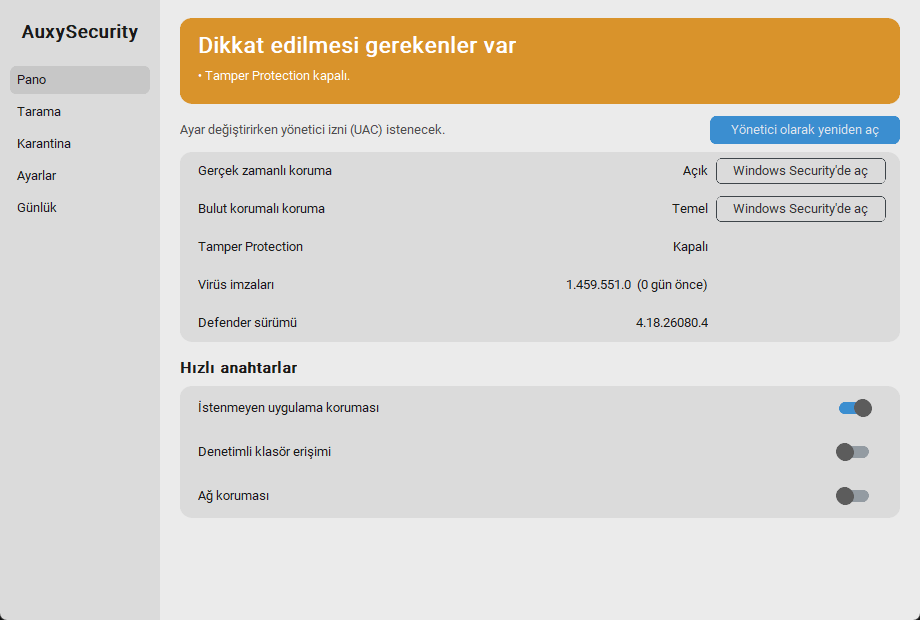
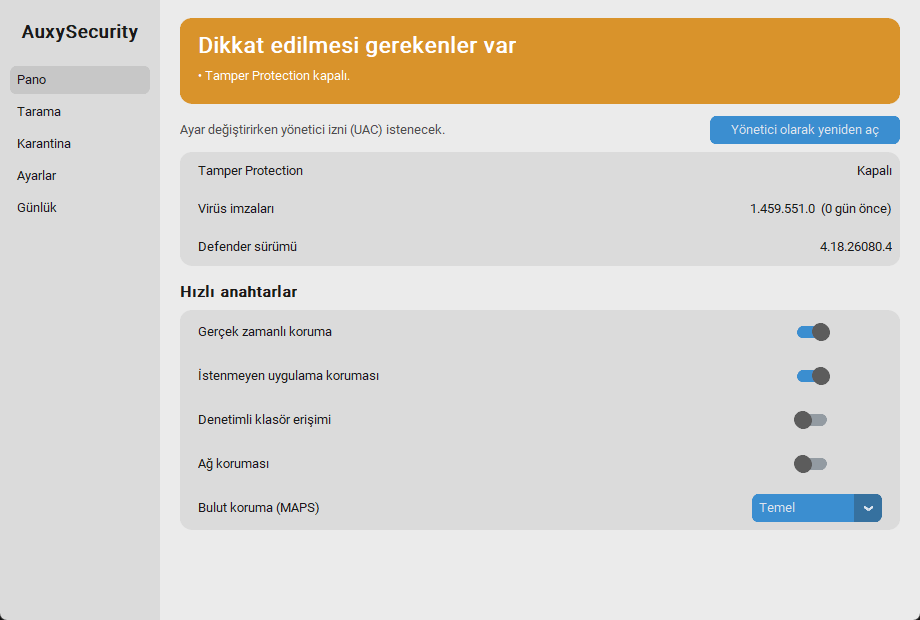
M3 duzeltme: realtime/maps uygulama ici kontrol, Windows Security yonlendirmesi kaldirildi

diff --git a/src/auxy/gui/app.py b/src/auxy/gui/app.py
@@ -1,14 +1,11 @@
-"""AuxySecurity ana penceresi (customtkinter). Mantik core/ ve viewmodel.py'dedir."""
+"""AuxySecurity ana penceresi (customtkinter). Mantik core/ ve viewmodel.py'dedir."""
 
 from __future__ import annotations
-
-import os
 
 import customtkinter as ctk
 
 from auxy import __version__
 from auxy.core import actions, defender, paths, system
-from auxy.core.settings import READONLY_KEYS as READONLY
 from auxy.core.settings import SETTINGS
 from auxy.core.settings import TOGGLE_KEYS as TOGGLES
 from auxy.gui import viewmodel as vm
@@ -16,10 +13,11 @@ from auxy.gui.worker import Worker
 
 COLORS = {vm.OK: "#2e9e5b", vm.WARN: "#d9932b", vm.CRIT: "#d64545"}
 AUTO_REFRESH_MS = 30_000
-WINSEC_URI = "windowsdefender://threatsettings"
 
 VALUE_TR = {"on": "Açık", "off": "Kapalı", "audit": "Denetim", "basic": "Temel",
             "advanced": "Gelişmiş"}
+
+MAPS_TR = {"Kapalı": "off", "Temel": "basic", "Gelişmiş": "advanced"}
 
 NAV = (
     ("dashboard", "Pano"),
@@ -28,13 +26,6 @@ NAV = (
     ("settings", "Ayarlar"),
     ("log", "Günlük"),
 )
-
-
-def _open_windows_security() -> None:
-    try:
-        os.startfile(WINSEC_URI)  # noqa: S606
-    except OSError:
-        pass
 
 
 class DashboardPage(ctk.CTkFrame):
@@ -74,8 +65,6 @@ class DashboardPage(ctk.CTkFrame):
         info.columnconfigure(1, weight=1)
         self.info_values: dict[str, ctk.CTkLabel] = {}
         rows = (
-            ("realtime", "Gerçek zamanlı koruma"),
-            ("maps", "Bulut korumalı koruma"),
             ("tamper", "Tamper Protection"),
             ("signature", "Virüs imzaları"),
             ("product", "Defender sürümü"),
@@ -86,12 +75,6 @@ class DashboardPage(ctk.CTkFrame):
             val = ctk.CTkLabel(info, text="—", anchor="e")
             val.grid(row=i, column=1, sticky="e", padx=(8, 8), pady=5)
             self.info_values[key] = val
-            if key in READONLY:
-                ctk.CTkButton(
-                    info, text="Windows Security'de aç", width=170, height=26,
-                    fg_color="transparent", border_width=1,
-                    text_color=("gray20", "gray85"), command=_open_windows_security,
-                ).grid(row=i, column=2, padx=(0, 14), pady=5)
 
         # Hizli anahtarlar
         ctk.CTkLabel(self, text="Hızlı anahtarlar", font=ctk.CTkFont(size=15, weight="bold"),
@@ -113,6 +96,14 @@ class DashboardPage(ctk.CTkFrame):
             self.switches[key] = switch
             self.switch_notes[key] = note
 
+        # Bulut koruma: uc seviyeli (Kapali / Temel / Gelismis)
+        row = len(TOGGLES)
+        ctk.CTkLabel(sw, text=SETTINGS["maps"].label, anchor="w").grid(
+            row=row, column=0, sticky="w", padx=18, pady=8)
+        self.maps_menu = ctk.CTkOptionMenu(
+            sw, values=list(MAPS_TR), width=130, command=app.set_maps)
+        self.maps_menu.grid(row=row, column=2, padx=(0, 18), pady=6)
+
         self.message = ctk.CTkLabel(self, text="", anchor="w", wraplength=640, justify="left")
         self.message.grid(row=5, column=0, sticky="w", pady=(12, 0))
 
@@ -123,9 +114,8 @@ class DashboardPage(ctk.CTkFrame):
         self.banner_reasons.configure(text="\n".join(f"• {r}" for r in health.reasons))
 
         iv = self.info_values
-        iv["realtime"].configure(text="Açık" if st.realtime_on else "Kapalı")
         maps = SETTINGS["maps"].name_of(st.prefs["MAPSReporting"])
-        iv["maps"].configure(text=VALUE_TR.get(maps, maps))
+        self.maps_menu.set(VALUE_TR.get(maps, maps))
         iv["tamper"].configure(text="Açık" if st.tamper_protected else "Kapalı")
         age = vm.signature_age_days(st)
         sig = st.status.get("AntivirusSignatureVersion") or "?"
@@ -270,10 +260,15 @@ class App(ctk.CTk):
 
     # ---- eylemler ----
     def toggle(self, key: str, switch: ctk.CTkSwitch) -> None:
-        value = "on" if switch.get() else "off"
-        label = SETTINGS[key].label
-        self.dashboard.show_message(f"{label}: {value} uygulanıyor…")
         switch.configure(state="disabled")
+        self._apply(key, "on" if switch.get() else "off")
+
+    def set_maps(self, shown: str) -> None:
+        self._apply("maps", MAPS_TR[shown])
+
+    def _apply(self, key: str, value: str) -> None:
+        label = SETTINGS[key].label
+        self.dashboard.show_message(f"{label}: {VALUE_TR.get(value, value)} uygulanıyor…")
         self.worker.submit(lambda: actions.apply_setting(key, value),
                            lambda res, exc: self._on_set(label, res, exc))
 

diff --git a/src/auxy/agent/tray.py b/src/auxy/agent/tray.py
@@ -8,11 +8,10 @@ import threading
 
 from auxy.core import actions, defender, system
 from auxy.core.log import get_logger
-from auxy.core.settings import READONLY_KEYS, SETTINGS, TOGGLE_KEYS
+from auxy.core.settings import SETTINGS, TOGGLE_KEYS
 from auxy.gui import viewmodel as vm
 
 REFRESH_S = 60  # dakikada bir (~100 ms WMI); aradaki sure tamamen uykuda
-WINSEC_URI = "windowsdefender://threatsettings"
 VALUE_TR = {"on": "Açık", "off": "Kapalı", "audit": "Denetim", "basic": "Temel",
             "advanced": "Gelişmiş"}
 
@@ -79,13 +78,15 @@ class Agent:
                 checked=self._checked(key),
                 enabled=self.status is not None,
             )
+        yield item(
+            SETTINGS["maps"].label,
+            self._pystray.Menu(*(
+                item(shown, self._maps_action(value), checked=self._maps_checked(value), radio=True)
+                for shown, value in (("Kapalı", "off"), ("Temel", "basic"), ("Gelişmiş", "advanced"))
+            )),
+            enabled=self.status is not None,
+        )
         yield sep
-        for key in READONLY_KEYS:
-            name = self._value_name(key)
-            text = f"{SETTINGS[key].label}: {VALUE_TR.get(name, name) if name else '?'}"
-            yield item(text, None, enabled=False)
-        yield sep
-        yield item("Windows Security'yi aç", lambda *_: os.startfile(WINSEC_URI))
         yield item("Yenile", lambda *_: self._wake.set())
         yield item("Çıkış", self.quit)
 
@@ -96,6 +97,18 @@ class Agent:
             self._start(self._toggle, key)
 
         return action
+
+    def _maps_action(self, value: str):
+        def action(icon, item):
+            self._start(self._apply, "maps", value)
+
+        return action
+
+    def _maps_checked(self, value: str):
+        def checked(item):
+            return self._value_name("maps") == value
+
+        return checked
 
     def _checked(self, key: str):
         def checked(item):
@@ -109,7 +122,9 @@ class Agent:
         threading.Thread(target=fn, args=args, daemon=True).start()
 
     def _toggle(self, key: str) -> None:
-        value = "off" if self._value_name(key) in ("on", "audit") else "on"
+        self._apply(key, "off" if self._value_name(key) in ("on", "audit") else "on")
+
+    def _apply(self, key: str, value: str) -> None:
         res = actions.apply_setting(key, value)
         label = SETTINGS[key].label
         self.icon.notify(res.message if not res.ok else f"{label}: {res.message}", "AuxySecurity")

diff --git a/src/auxy/core/service.py b/src/auxy/core/service.py
@@ -110,9 +110,8 @@ class DefenderService:
             return SetResult(setting.key, old_name, new_name, changed=False)
         if st.tamper_protected and setting.tamper_guarded:
             raise TamperBlockedError(
-                f"Tamper Protection acik; '{setting.key}' degistirilemez. "
-                "Windows Security > Virus ve tehdit korumasi > Ayarlari yonet bolumunden "
-                "Tamper Protection'i elle kapatip tekrar dene."
+                f"{setting.label} değiştirilemedi: Tamper Protection açık olduğu için Windows "
+                "bu ayara dışarıdan müdahaleye izin vermiyor."
             )
 
         created = backup.remember_original(setting.key, current) if track_backup else False
@@ -132,15 +131,13 @@ class DefenderService:
                             setting.key, old_name, new_name, setting.name_of(after))
             if setting.tamper_guarded:
                 hint = (
-                    "Windows bu ayari, Tamper Protection 'kapali' gorunse bile disaridan "
-                    "degistirmeye izin vermiyor (komut hata vermeden yok sayiliyor). "
-                    "Windows Security'den elle degistir: windowsdefender://threatsettings"
+                    "Windows bu ayara dışarıdan müdahaleyi, Tamper Protection kapalı "
+                    "görünse bile komut hata vermeden yok sayarak engelliyor."
                 )
             else:
-                hint = "Bir grup ilkesi veya yonetim politikasi engelliyor olabilir."
+                hint = "Bir grup ilkesi veya yönetim politikası engelliyor olabilir."
             raise TamperBlockedError(
-                f"'{setting.key}' degisikligi uygulanmadi (deger hala {setting.name_of(after)}). "
-                + hint
+                f"{setting.label} değiştirilemedi (değer hâlâ {setting.name_of(after)}). " + hint
             )
         if track_backup and key_saved_equals(setting.key, target):
             backup.forget(setting.key)  # kullanici orijinale elle dondu; bayat kayit kalmasin

diff --git a/tests/test_m3.py b/tests/test_m3.py
@@ -138,8 +138,10 @@ def test_menu_builds_with_and_without_status():
     assert items["İstenmeyen uygulama koruması"].checked is True
     assert items["Denetimli klasör erişimi"].checked is False
     assert items["Ağ koruması"].checked is True  # denetim modu = acik sayilir
-    assert "Gerçek zamanlı koruma: Açık" in items
-    assert "Bulut koruma (MAPS): Temel" in items
+    assert items["Gerçek zamanlı koruma"].checked is True  # artik uygulama icinden degisir
+    maps = {i.text: i.checked for i in items["Bulut koruma (MAPS)"].submenu.items}
+    assert maps == {"Kapalı": False, "Temel": True, "Gelişmiş": False}
+    assert not any("Windows Security" in t for t in items)  # yonlendirme yok
 
 
 def test_tooltip():

diff --git a/src/auxy/core/settings.py b/src/auxy/core/settings.py
@@ -1,4 +1,4 @@
-"""Yonetilebilen Defender ayarlari ve izinli deger listesi.
+"""Yonetilebilen Defender ayarlari ve izinli deger listesi.
 
 PowerShell komutuna yalnizca bu tablodaki sabit parametre adlari ve dogrulanmis
 bool/int degerleri girer; kullanici girdisi komuta gomulmez.
@@ -32,9 +32,8 @@ class Setting:
         raise ValueError(f"Gecersiz ham deger: {raw!r}")
 
 
-# Yazilabilen ve Windows'un dis yazmaya izin vermedigi (M1 bulgusu) ayarlar
-TOGGLE_KEYS = ("pua", "cfa", "netprot")
-READONLY_KEYS = ("realtime", "maps")
+# Hizli anahtar olarak sunulan ayarlar (maps uc seviyeli oldugu icin ayri kontrol)
+TOGGLE_KEYS = ("realtime", "pua", "cfa", "netprot")
 
 SETTINGS: dict[str, Setting] = {
     s.key: s

diff --git a/tests/test_service.py b/tests/test_service.py
@@ -114,10 +114,11 @@ def test_not_applied_is_detected_and_backup_dropped():
     assert backup.load() == {}
 
 
-def test_silent_ignore_message_points_to_windows_security():
+def test_silent_ignore_message_explains_without_redirecting():
     f = FakeDefender(apply=False)
-    with pytest.raises(TamperBlockedError, match="windowsdefender://threatsettings"):
+    with pytest.raises(TamperBlockedError, match="Tamper Protection kapalı") as e:
         svc(f).set("realtime", "off")
+    assert "windowsdefender" not in str(e.value) and "Windows Security" not in str(e.value)
     with pytest.raises(TamperBlockedError, match="grup ilkesi"):
         svc(f).set("pua", "off")
 

diff --git a/docs/milestones/M03-tray-autostart.md b/docs/milestones/M03-tray-autostart.md
@@ -18,7 +18,7 @@ işlerde **uygulamanın kendisinin UAC istemesi** (kullanıcıyı Windows Securi
 .\.venv\Scripts\python -m auxy autostart status
 .\.venv\Scripts\python -m auxy autostart remove --elevate    # geri al
 ```
-Tray menüsü: durum başlığı · **Paneli aç** (sol tık da açar) · hızlı anahtarlar (İstenmeyen uygulama koruması, Denetimli klasör erişimi, Ağ koruması) · Gerçek zamanlı/Bulut durumu (salt-okunur) · Windows Security'yi aç · Yenile · Çıkış.
+Tray menüsü: durum başlığı · **Paneli aç** (sol tık da açar) · hızlı anahtarlar (Gerçek zamanlı koruma, İstenmeyen uygulama koruması, Denetimli klasör erişimi, Ağ koruması) · Bulut koruma alt menüsü (Kapalı/Temel/Gelişmiş) · Yenile · Çıkış.
 
 Simge renkleri (yeşil: korunuyor, sarı: dikkat, kırmızı: korunmuyor, gri: okunamadı):
 
@@ -64,7 +64,8 @@ Simge renkleri (yeşil: korunuyor, sarı: dikkat, kırmızı: korunmuyor, gri: o
 
 ## 8. Bilinen sorunlar / Riskler / Plandan sapmalar
 - **"Koruma 10/30/60 dk duraklat" plandan çıkarıldı.** Gerçek zamanlı korumayı kapatma M1'de Windows tarafından engellendiği için duraklatma yapılamaz (ve ilke yolu denenmeyecek). Doğrulanmış çözüm bulunursa geri eklenir.
-- **`realtime` ve `maps` hâlâ salt-okunur.** UAC vermek bunu çözmüyor, çünkü engel yetki değil Windows'un kendi korumasında (M1 testi yönetici yetkisiyle yapılmıştı).
+- **Düzeltme (kullanıcı geri bildirimi):** `realtime` ve `maps` artık GUI ve tray'de **uygulamanın kendi kontrolleri** (anahtar / Kapalı-Temel-Gelişmiş menüsü); **Windows Security'ye yönlendiren düğme, menü öğesi ve mesaj tamamen kaldırıldı.** Windows bu iki ayarı yine de yok sayıyor (aşağıda). Bu durumda uygulama içinde "değiştirilemedi" mesajı çıkar ve kontrol gerçek değere döner.
+- **`realtime` ve `maps` bu makinede hâlâ uygulanmıyor.** UAC akışı doğru çalışıyor (UAC → uygulama → geri okuma), ama Defender `Set-MpPreference` komutunu hata vermeden yok sayıyor. Gerçek makinede yeniden doğrulandı (yönetici yetkisiyle, uygulama yolundan): `realtime off` ve `maps advanced` → değer değişmedi, mesaj uygulamada gösterildi, ikisi de başlangıç değerinde kaldı. Kullanıcı niyeti (uygulamadan değiştirme) karşılanamıyor; engel Defender'ın kendi koruması. Denenmeyen/engellenen tek teknik yol kayıt defteri ilkesi (M1 notu).
 - **RAM hedefi sınırda:** Çalışma kümesi ~41 MB. `win32com` ve PIL yükü büyük kısım. M8'de azaltma: gereksiz import'lar, simgeyi önceden çizip önbelleğe alma, gerekirse WMI'ı hafif COM çağrısıyla değiştirmek.
 - **Güvenlik notu (M8/M9):** UAC ile yükseltilen süreç, kullanıcı tarafından yazılabilir `.venv` ve `src` dizinlerinden Python kodu çalıştırıyor. Yani bu klasöre yazabilen bir program UAC onayını kötüye kullanabilir. Kurulu sürüm `Program Files` altında ve imzalı olmalı; bu risk geliştirme kurulumuna özgü.
 - **Microsoft Store Python:** `%LOCALAPPDATA%` sanallaştırması (M2 notu) devam ediyor; yardımcı ve ana süreç aynı sanal alanı gördüğü için akış çalıştı.
